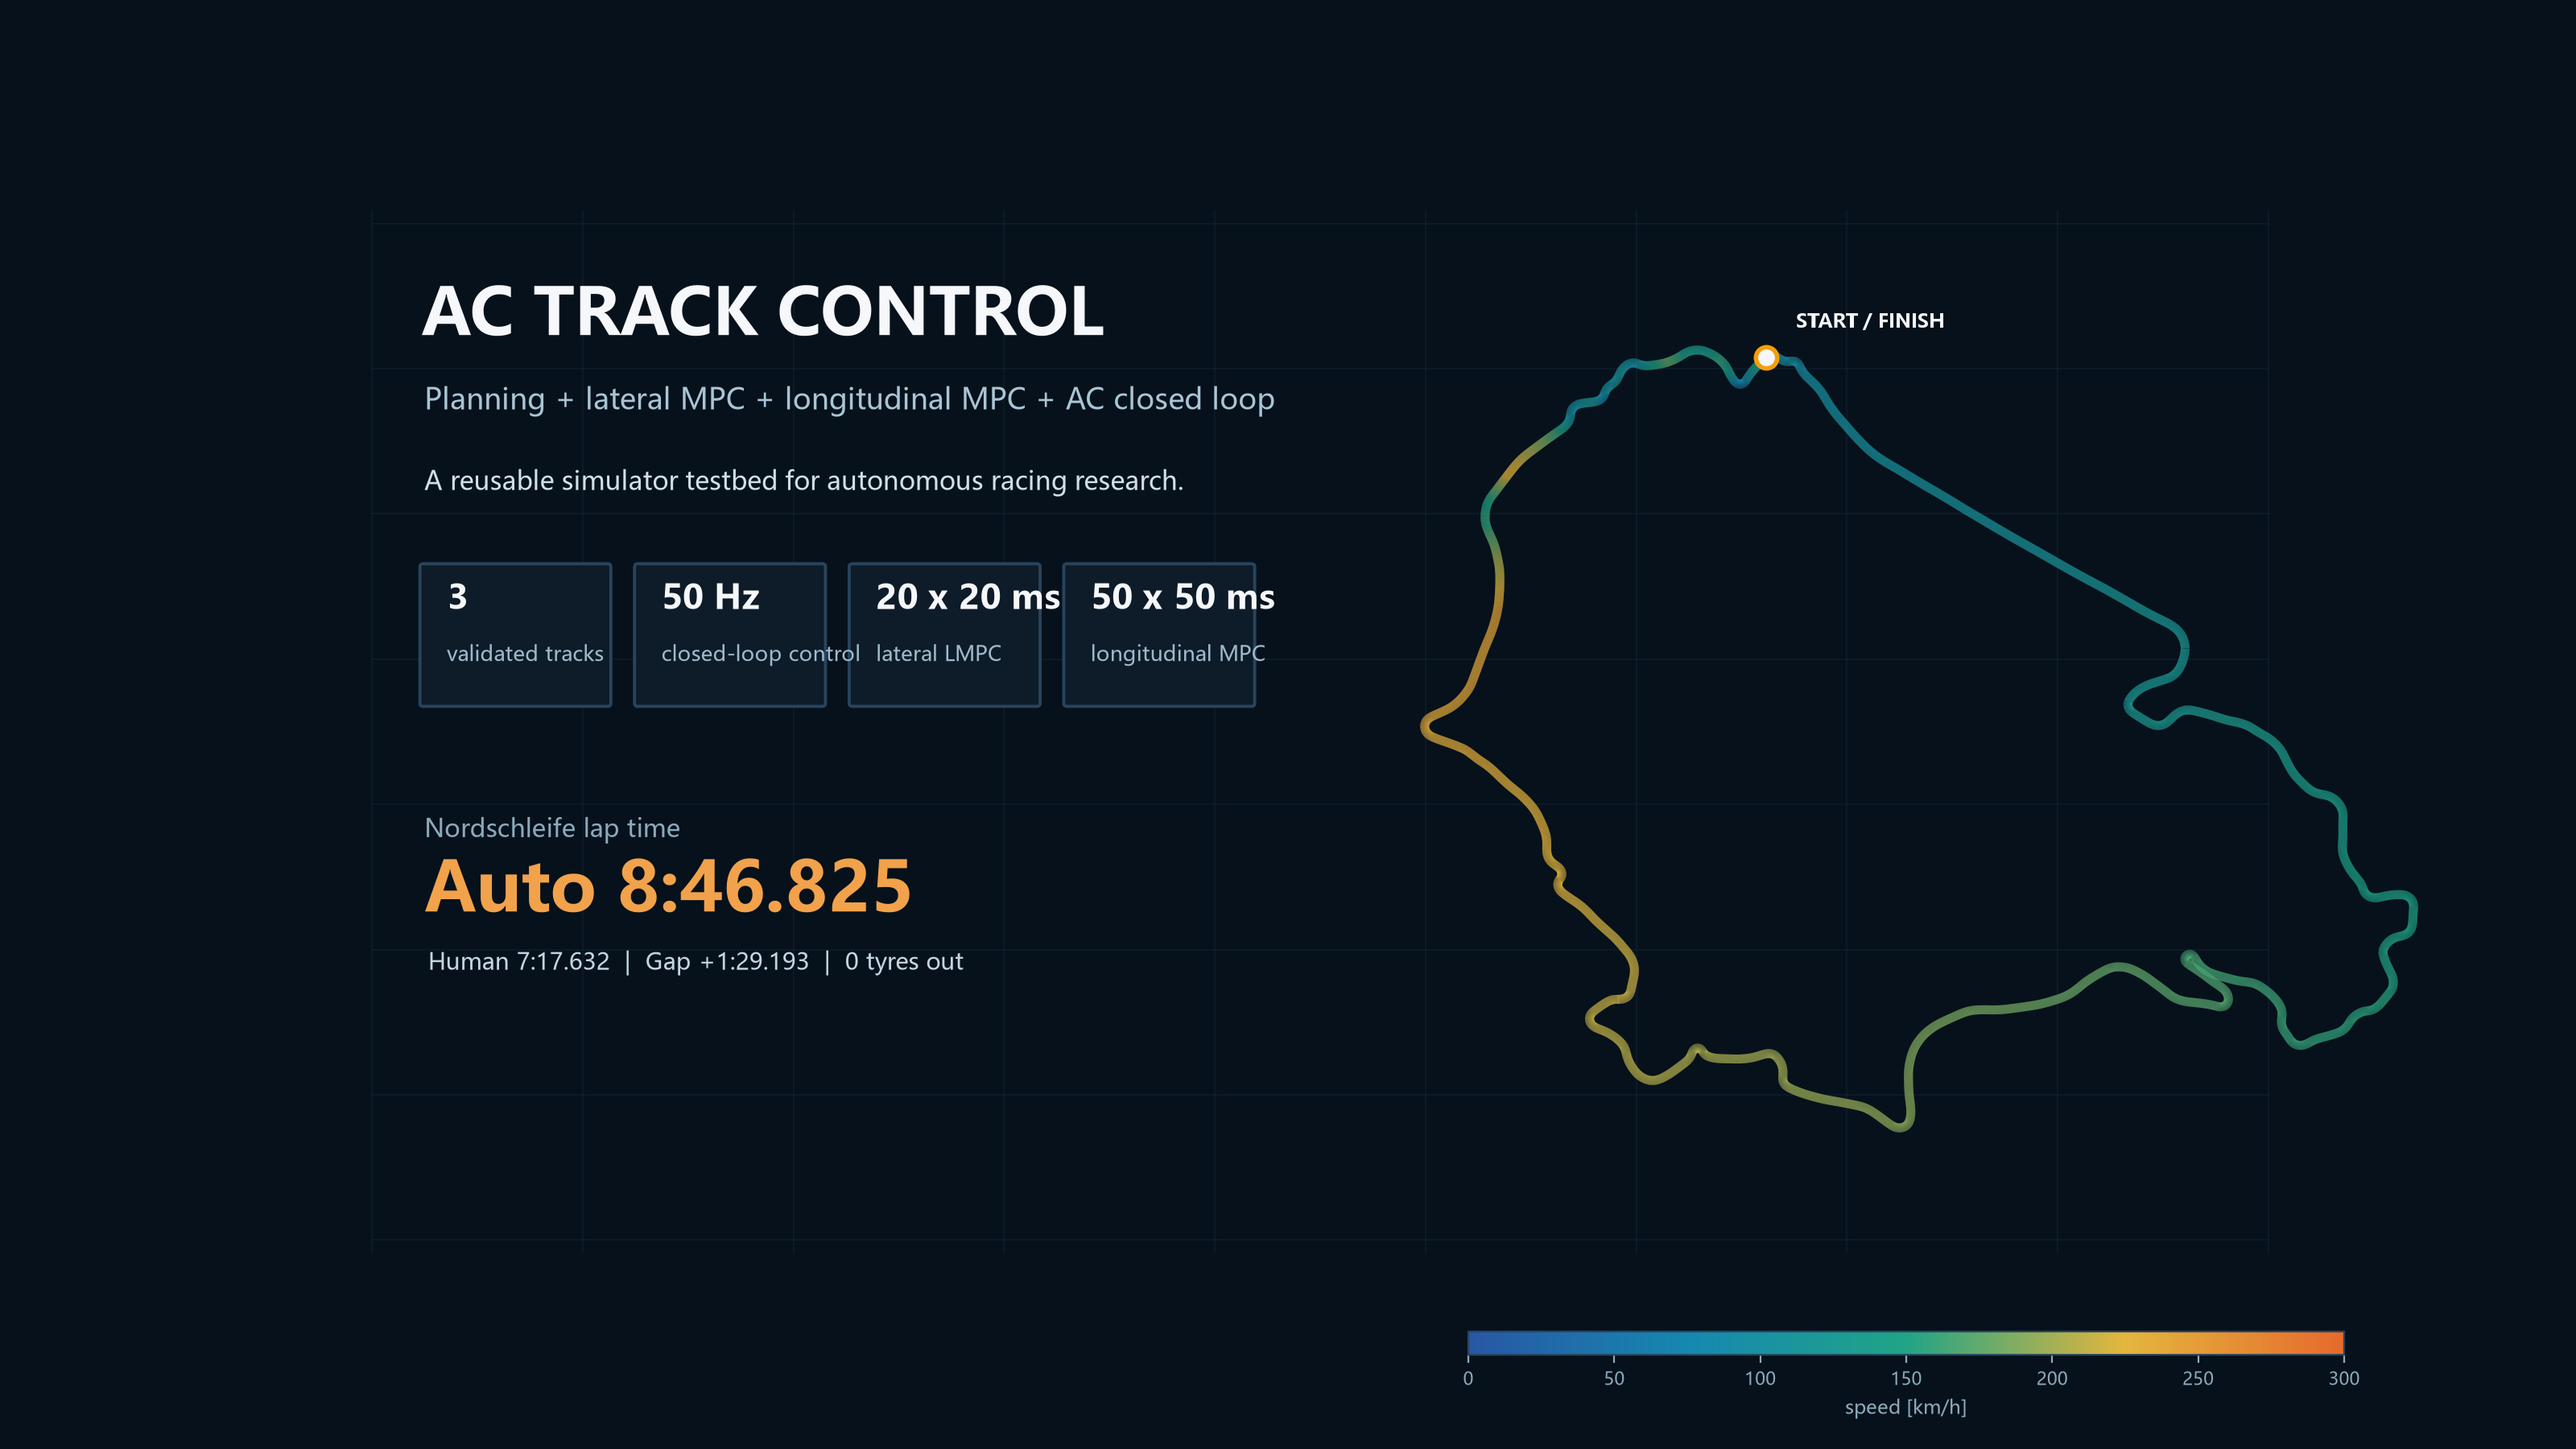
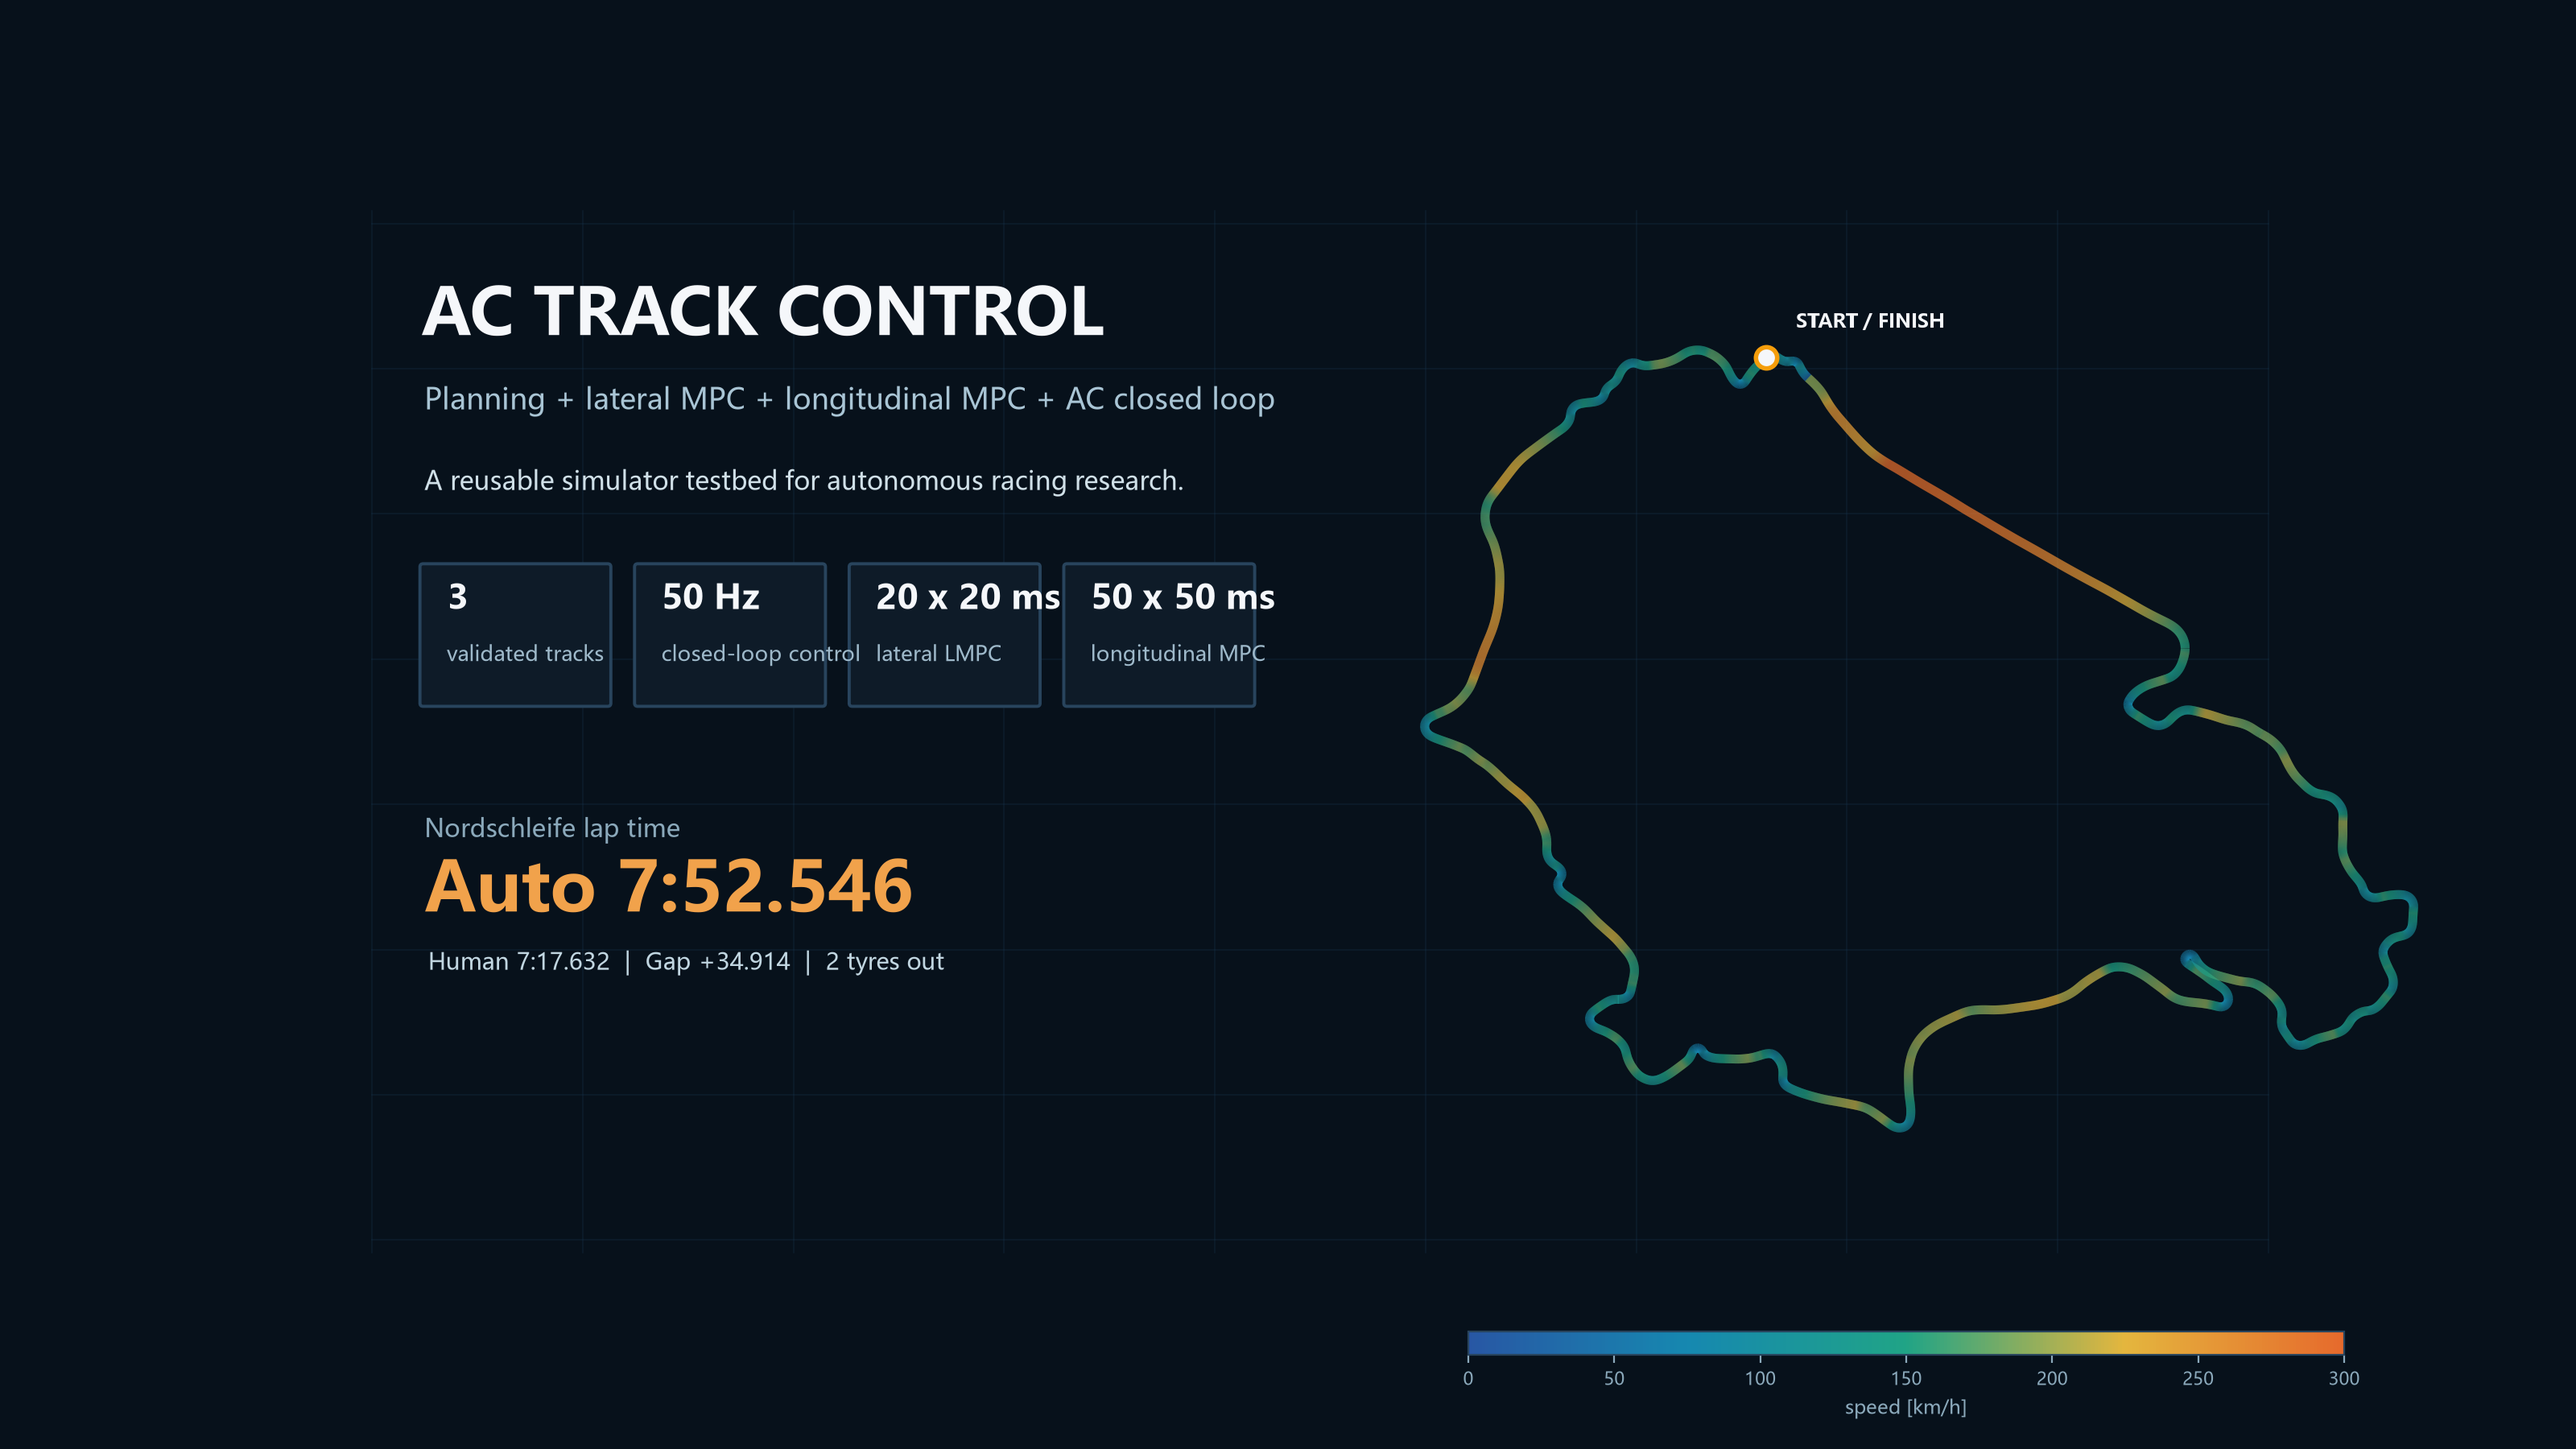
Refresh figures with latest validated lap times

diff --git a/tools/build_visual_report.py b/tools/build_visual_report.py
@@ -234,7 +234,11 @@ def _speed_on_path(
 
 
 def build_hero() -> None:
-    log_path = PROJECT_ROOT / "logs" / "lmpc_nordschleife_v2_safe.csv"
+    log_path = (
+        PROJECT_ROOT
+        / "logs"
+        / "lmpc_nordschleife_frenet_refine_103_sync_replay.csv"
+    )
     _, lap = _load_fastest_lap(log_path, automatic=True)
     track_path = _load_track_path("ks_nordschleife", "nordschleife")
     points = np.asarray(track_path.points, dtype=float)
@@ -333,7 +337,7 @@ def build_hero() -> None:
     ax.text(
         0.82,
         3.05,
-        "Auto 8:46.825",
+        "Auto 7:52.546",
         fontsize=31,
         fontweight="bold",
         color="#F1A24B",
@@ -341,7 +345,7 @@ def build_hero() -> None:
     ax.text(
         0.85,
         2.58,
-        "Human 7:17.632  |  Gap +1:29.193  |  0 tyres out",
+        "Human 7:17.632  |  Gap +34.914  |  2 tyres out",
         fontsize=10.5,
         color="#C1D6E1",
     )
@@ -414,9 +418,9 @@ def build_track_maps() -> None:
         {
             "name": "Shanghai",
             "human_path": PROJECT_ROOT / "logs" / "vehicle_dynamics_reference_20min.csv",
-            "auto_path": PROJECT_ROOT / "logs" / "lmpc_shanghai_v63_h50dt05_265_5lap.csv",
+            "auto_path": PROJECT_ROOT / "logs" / "lmpc_shanghai_frenet_refine_103_latest_local_line60.csv",
             "human_label": f"Human {_format_lap_time(136.247968)}",
-            "auto_label": f"Auto {_format_lap_time(143.542842)}",
+            "auto_label": f"Auto {_format_lap_time(134.399)}",
             "color": COLORS["blue"],
             "track_name": "tr_shanghai",
             "configuration": "advanced",
@@ -424,9 +428,9 @@ def build_track_maps() -> None:
         {
             "name": "Zhejiang",
             "human_path": PROJECT_ROOT / "logs" / "manual_reference_v49_moza.csv",
-            "auto_path": PROJECT_ROOT / "logs" / "lmpc_v59_rollback_5lap.csv",
+            "auto_path": PROJECT_ROOT / "logs" / "lmpc_zhejiang_refine_103_brake130_fastfall_cap17_acc_cal_local055.csv",
             "human_label": f"Human {_format_lap_time(94.328507)}",
-            "auto_label": f"Auto {_format_lap_time(103.764338)}",
+            "auto_label": f"Auto {_format_lap_time(96.245)}",
             "color": COLORS["green"],
             "track_name": "st_zhejiang",
             "configuration": "layout_main",
@@ -434,9 +438,9 @@ def build_track_maps() -> None:
         {
             "name": "Nordschleife",
             "human_path": None,
-            "auto_path": PROJECT_ROOT / "logs" / "lmpc_nordschleife_v2_safe.csv",
+            "auto_path": PROJECT_ROOT / "logs" / "lmpc_nordschleife_frenet_refine_103_sync_replay.csv",
             "human_label": f"Human {_format_lap_time(437.632)}",
-            "auto_label": f"Auto {_format_lap_time(526.824546)}",
+            "auto_label": f"Auto {_format_lap_time(472.546)}",
             "color": COLORS["orange"],
             "track_name": "ks_nordschleife",
             "configuration": "nordschleife",
@@ -602,20 +606,20 @@ def build_performance_dashboard() -> None:
 
     ax_gap = fig.add_subplot(grid[0, 0])
     tracks = ["Shanghai", "Zhejiang"]
-    gaps = [7.295, 9.436]
+    gaps = [-1.849, 1.917]
     colors = [COLORS["blue"], COLORS["green"]]
     bars = ax_gap.barh(tracks, gaps, color=colors, height=0.48)
     for bar, gap in zip(bars, gaps):
         ax_gap.text(
             gap + 0.12,
             bar.get_y() + bar.get_height() / 2,
-            f"+{gap:.3f} s",
+            f"{gap:+.3f} s",
             va="center",
             color=COLORS["ink"],
             fontsize=11,
             fontweight="bold",
         )
-    ax_gap.set_xlim(0, 11)
+    ax_gap.set_xlim(-3, 12)
     ax_gap.set_title(
         "Gap to human teaching lap",
         loc="left",
@@ -623,13 +627,13 @@ def build_performance_dashboard() -> None:
         fontweight="bold",
         color=COLORS["ink"],
     )
-    ax_gap.set_xlabel("seconds slower")
+    ax_gap.set_xlabel("seconds versus human")
     ax_gap.grid(axis="x", color=COLORS["grid"], alpha=0.8)
     ax_gap.set_axisbelow(True)
 
     ax_track = fig.add_subplot(grid[0, 1])
     error_tracks = ["Shanghai", "Zhejiang", "Nordschleife"]
-    errors = [0.566, 0.535, 0.461]
+    errors = [1.866, 1.472, 1.185]
     bars = ax_track.barh(
         error_tracks,
         errors,
@@ -653,7 +657,7 @@ def build_performance_dashboard() -> None:
             fontsize=10.5,
             fontweight="bold",
         )
-    ax_track.set_xlim(0, 0.72)
+    ax_track.set_xlim(0, 2.1)
     ax_track.set_title(
         "p95 absolute lateral tracking error",
         loc="left",
@@ -674,7 +678,7 @@ def build_performance_dashboard() -> None:
         "Zhejiang\nauto",
         "Nordschleife\nauto",
     ]
-    speeds = [273.2, 268.7, 239.4, 229.2, 293.8]
+    speeds = [273.2, 272.3, 239.4, 237.7, 296.7]
     speed_colors = [
         "#8AA8D8",
         COLORS["blue"],
@@ -717,8 +721,8 @@ def build_performance_dashboard() -> None:
             0.46,
             0.40,
             "Shanghai",
-            "0 tyres out",
-            "V63 verified / V64 candidate",
+            "1 tyre out",
+            "local-line60 candidate",
             COLORS["blue"],
         ),
         (
@@ -727,8 +731,8 @@ def build_performance_dashboard() -> None:
             0.46,
             0.40,
             "Zhejiang",
-            "4 complete laps",
-            "lap spread about 27 ms",
+            "2 tyres out",
+            "local055; 103 weights",
             COLORS["green"],
         ),
         (
@@ -737,8 +741,8 @@ def build_performance_dashboard() -> None:
             0.46,
             0.40,
             "Nordschleife",
-            "0 tyres out",
-            "first full stable lap",
+            "2 tyres out",
+            "corrected 7:52.546",
             COLORS["orange"],
         ),
         (

diff --git a/tools/build_project_assets.py b/tools/build_project_assets.py
@@ -522,37 +522,37 @@ def build_track_results() -> None:
         {
             "name": "Shanghai",
             "length": "5.43 km",
-            "lap": 143.542842,
-            "label": "2:23.543",
+            "lap": 134.399,
+            "label": "2:14.399",
             "human": "2:16.248",
-            "status": "V63 verified; V64 final candidate",
-            "max_speed": 268.726,
-            "lat": 0.566,
-            "tyres": 0,
+            "status": "local-line60; latest candidate",
+            "max_speed": 272.325,
+            "lat": 1.866,
+            "tyres": 1,
             "color": COLORS["blue"],
         },
         {
             "name": "Zhejiang",
             "length": "3.11 km",
-            "lap": 103.764338,
-            "label": "1:43.764",
+            "lap": 96.245,
+            "label": "1:36.245",
             "human": "1:34.329",
-            "status": "4 complete laps; 2 tyres out",
-            "max_speed": 229.152,
-            "lat": 0.530,
+            "status": "local055; 103 lateral weights",
+            "max_speed": 237.733,
+            "lat": 1.472,
             "tyres": 2,
             "color": COLORS["green"],
         },
         {
             "name": "Nordschleife",
             "length": "20.66 km",
-            "lap": 526.824546,
-            "label": "8:46.825",
+            "lap": 472.546,
+            "label": "7:52.546",
             "human": "7:17.632",
-            "status": "1 complete lap; zero tyres out",
-            "max_speed": 293.8,
-            "lat": 0.461,
-            "tyres": 0,
+            "status": "corrected crossing-to-crossing",
+            "max_speed": 296.703,
+            "lat": 1.185,
+            "tyres": 2,
             "color": COLORS["orange"],
         },
     ]
@@ -604,7 +604,11 @@ def build_track_results() -> None:
 
 
 def build_nordschleife_profile() -> None:
-    path = PROJECT_ROOT / "logs" / "lmpc_nordschleife_v2_safe.csv"
+    path = (
+        PROJECT_ROOT
+        / "logs"
+        / "lmpc_nordschleife_frenet_refine_103_sync_replay.csv"
+    )
     if not path.exists():
         return
     distance: list[float] = []
@@ -663,7 +667,7 @@ def build_nordschleife_profile() -> None:
     axes[0].legend(loc="upper right", ncol=3)
     axes[0].grid(color=COLORS["grid"], alpha=0.7)
     axes[0].set_title(
-        "Nordschleife V2 safe: one complete lap, zero tyres out",
+        "Nordschleife 103 sync: corrected 7:52.546 crossing-to-crossing",
         loc="left",
         fontsize=18,
         fontweight="bold",
